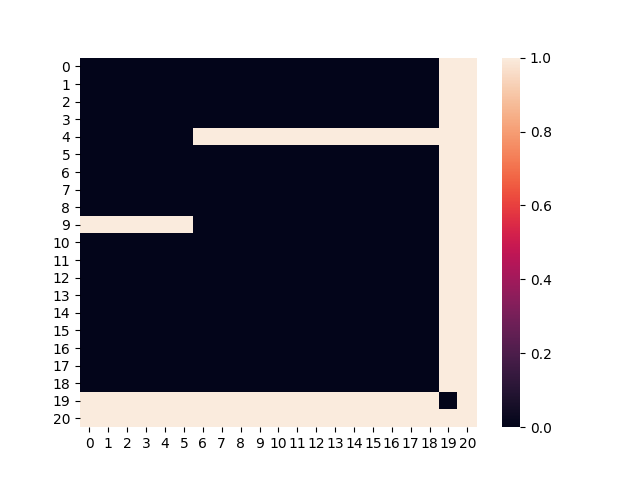
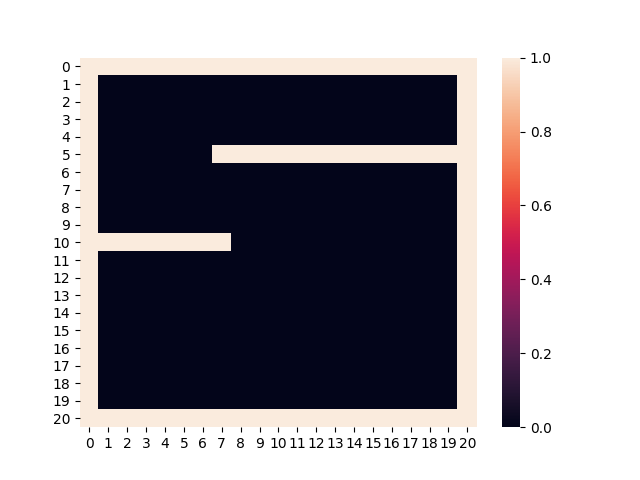
fixed maze representation

Changed region(s): [[0.125, 0.0938, 0.7188, 0.875]]

diff --git a/safety_gym/search/maze.py b/safety_gym/search/maze.py
@@ -31,17 +31,17 @@ class Maze:
             y2 = w[2][1]
             thickness = w[3]
 
-            is_horizontal = y1 == y2
-            if is_horizontal:
+            is_vertical = y1 == y2
+            if is_vertical:
                 for i in range(thickness):
                     xval = min(x1, x2)
                     for x in range(abs(x1 - x2)):
-                        self.maze_np[y1 + i - 1][xval + x - 1] = 1
+                        self.maze_np[y1 + i][xval + x] = 1
             else:
                 for i in range(thickness):
                     yval = min(y1, y2)
                     for y in range(abs(y1 - y2)):
-                        self.maze_np[yval + y - 1][x1 + i - 1] = 1
+                        self.maze_np[yval + y][x1 + i] = 1
 
     def _build_obstacles(self):
         if self.maze_config["obs_pos"] is None:

diff --git a/safety_gym/search/planning_config.py b/safety_gym/search/planning_config.py
@@ -2,11 +2,11 @@ planning_config = {
     "safety-gym-maze-1": {
         "robot_initial_pos": [17, 4],
         "robot_size": 1,
-        "walls": [(0, [0, 0], [20, 0], 1),
-                  (0, [0, 0], [0, 20], 1),
-                  (0, [0, 20], [20, 20], 1),
-                  (0, [20, 0], [20, 20], 1),
-                  (0, [0, 10], [7, 10], 1),
+        "walls":[(0, [0, 0], [0, 20], 1),
+                 (0, [0, 0], [20, 0], 1),
+                 (0, [20, 20], [0, 20], 1),
+                 (0, [20, 0], [20, 21], 1),
+                  (0, [0, 10], [8, 10], 1),
                   (0, [7, 5], [20, 5], 1)],
         "obs_pos": None,
         "obs_size": 0,

diff --git a/safety_gym/search/a_star.py b/safety_gym/search/a_star.py
@@ -70,7 +70,8 @@ class Agent:
                         new_priority = new_cost + (self.state.heuristic(next_state, goal_state))
                         q.put(next_state, new_priority)
                         path[next_state] = current
-        
+        print(path)
+
         #return path, path_cost
         return self.reconstruct_path(path, start_state, goal_state), path_cost
 
